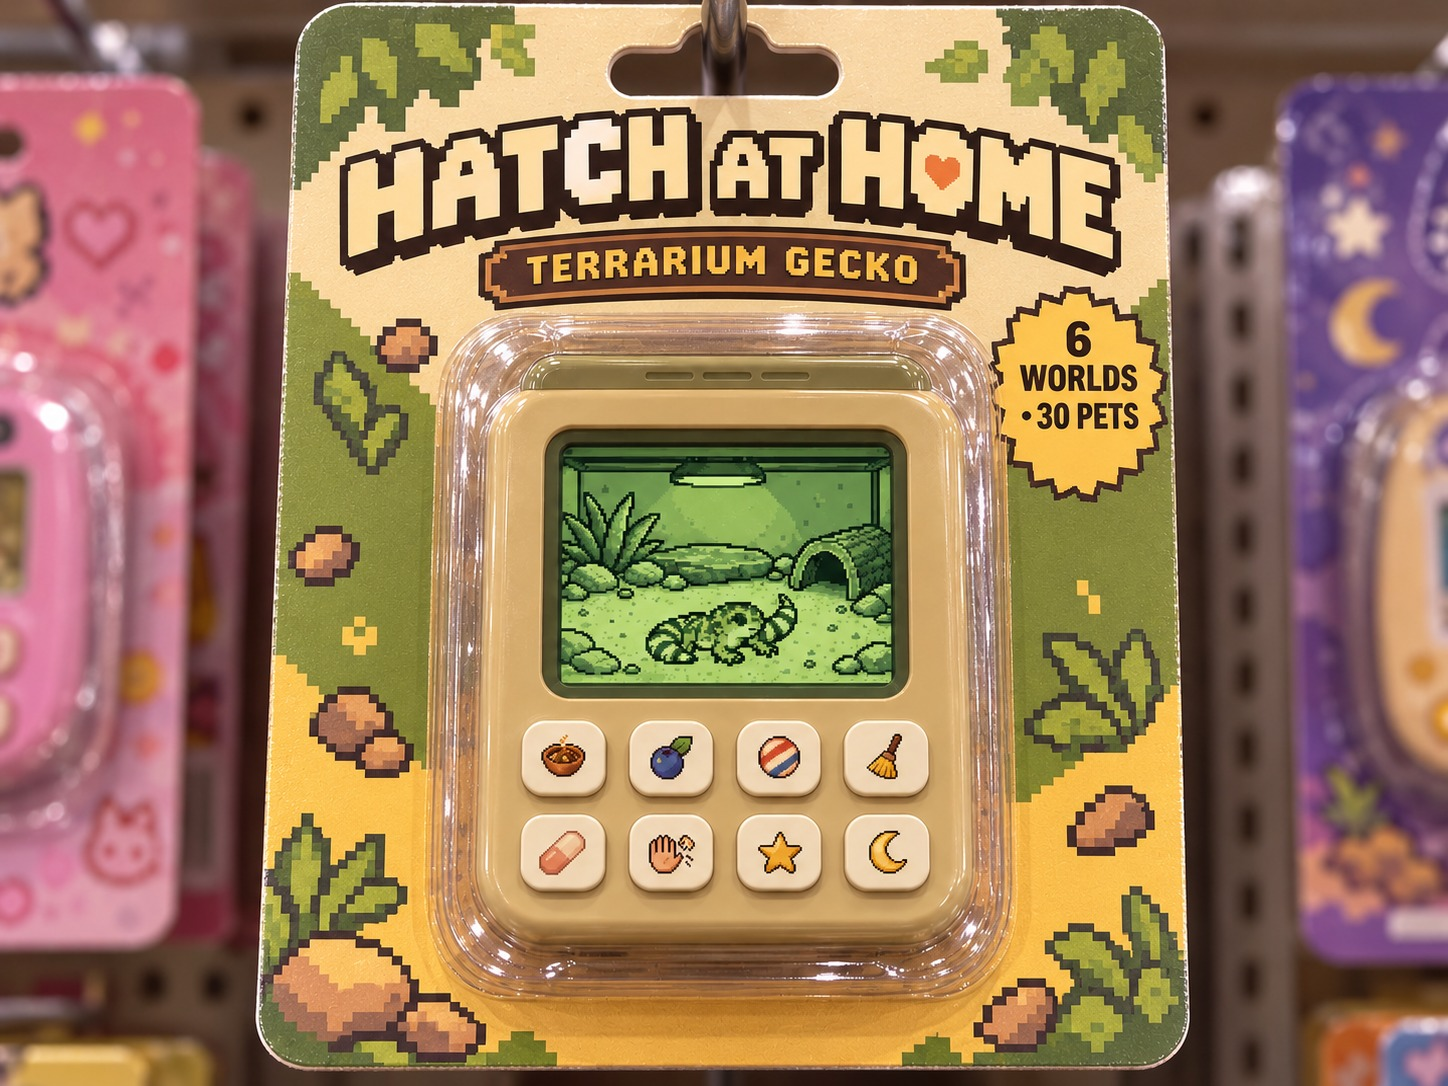
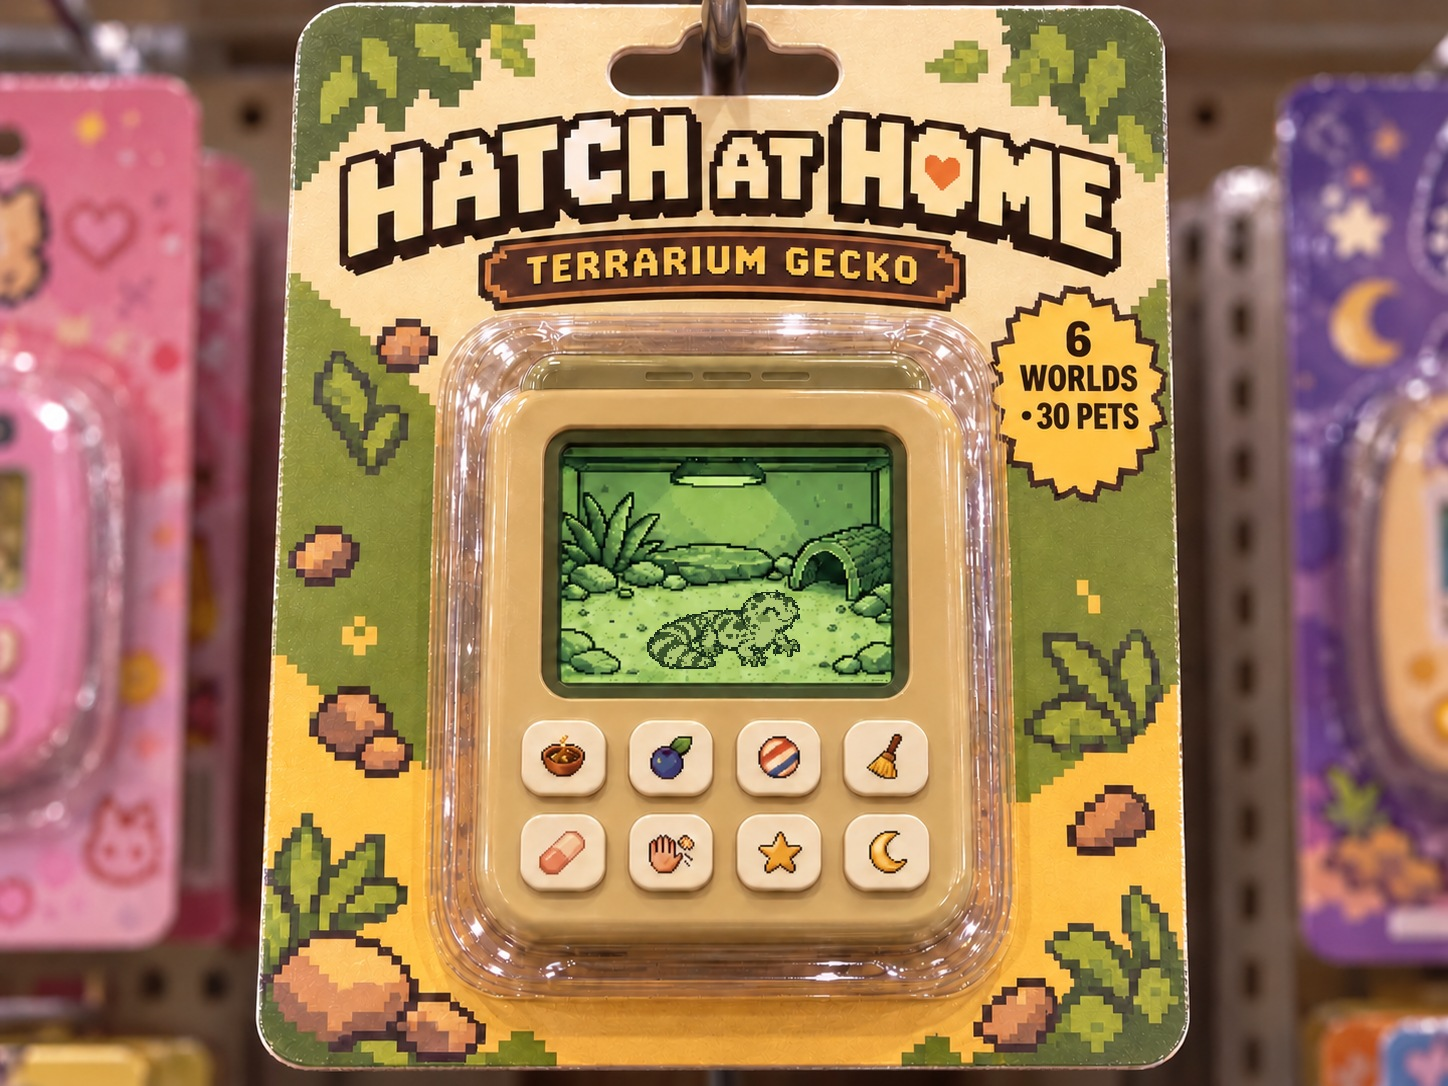
README: use the real gecko sprite in the retail pack
Replace the generated screen creature with the actual child_content_1 gecko sprite, preserving its single curled tail and mapping it to the mono LCD palette. Keep the correction reproducible in box_art.py.

Claude-Session: unavailable (Codex desktop task)

diff --git a/scripts/readme/box_art.py b/scripts/readme/box_art.py
@@ -461,6 +461,41 @@ def music_bridge():
     im.convert("RGB").save(OUT / "music-bridge.jpg", quality=91, optimize=True, progressive=True)
 
 
+def retail_gecko_sprite():
+    """Use the real one-tail gecko sprite in the photographed mono-screen pack."""
+    path = OUT / "retail-terrarium-gecko-mono.jpg"
+    im = Image.open(path).convert("RGBA")
+    sprite = Image.open(FRONT / "sprites/gecko/child_content_1.png").convert("RGBA")
+    sprite = sprite.crop(sprite.getchannel("A").getbbox())
+
+    # Keep the sprite's exact silhouette and pixel placement while matching the
+    # package's four-green LCD. This deliberately avoids redrawing the creature.
+    width = 153
+    height = round(sprite.height * width / sprite.width)
+    sprite = sprite.resize((width, height), Image.Resampling.NEAREST)
+    alpha = sprite.getchannel("A")
+    mono = Image.new("RGBA", sprite.size, (0, 0, 0, 0))
+    pixels = []
+    for r, g, b, a in sprite.getdata():
+        lum = (r * 299 + g * 587 + b * 114) // 1000
+        if lum < 48:
+            color = (24, 45, 29)
+        elif lum < 112:
+            color = (59, 83, 42)
+        elif lum < 178:
+            color = (118, 145, 74)
+        else:
+            color = (174, 198, 116)
+        pixels.append((*color, a))
+    mono.putdata(pixels)
+    mono.putalpha(alpha)
+
+    # The screen is nearly front-on in this product photograph. The pet sits
+    # on its lower edge, matching the scale and placement of the other LCD art.
+    im.alpha_composite(mono, ((im.width - width) // 2, 590))
+    im.convert("RGB").save(path, quality=93, optimize=True, progressive=True)
+
+
 def chapter_ribbons():
     w, h = 1600, 360
     im = Image.new("RGBA", (w, h), PURPLE)
@@ -495,3 +530,4 @@ if __name__ == "__main__":
     feature_cards()
     music_bridge()
     chapter_ribbons()
+    retail_gecko_sprite()
